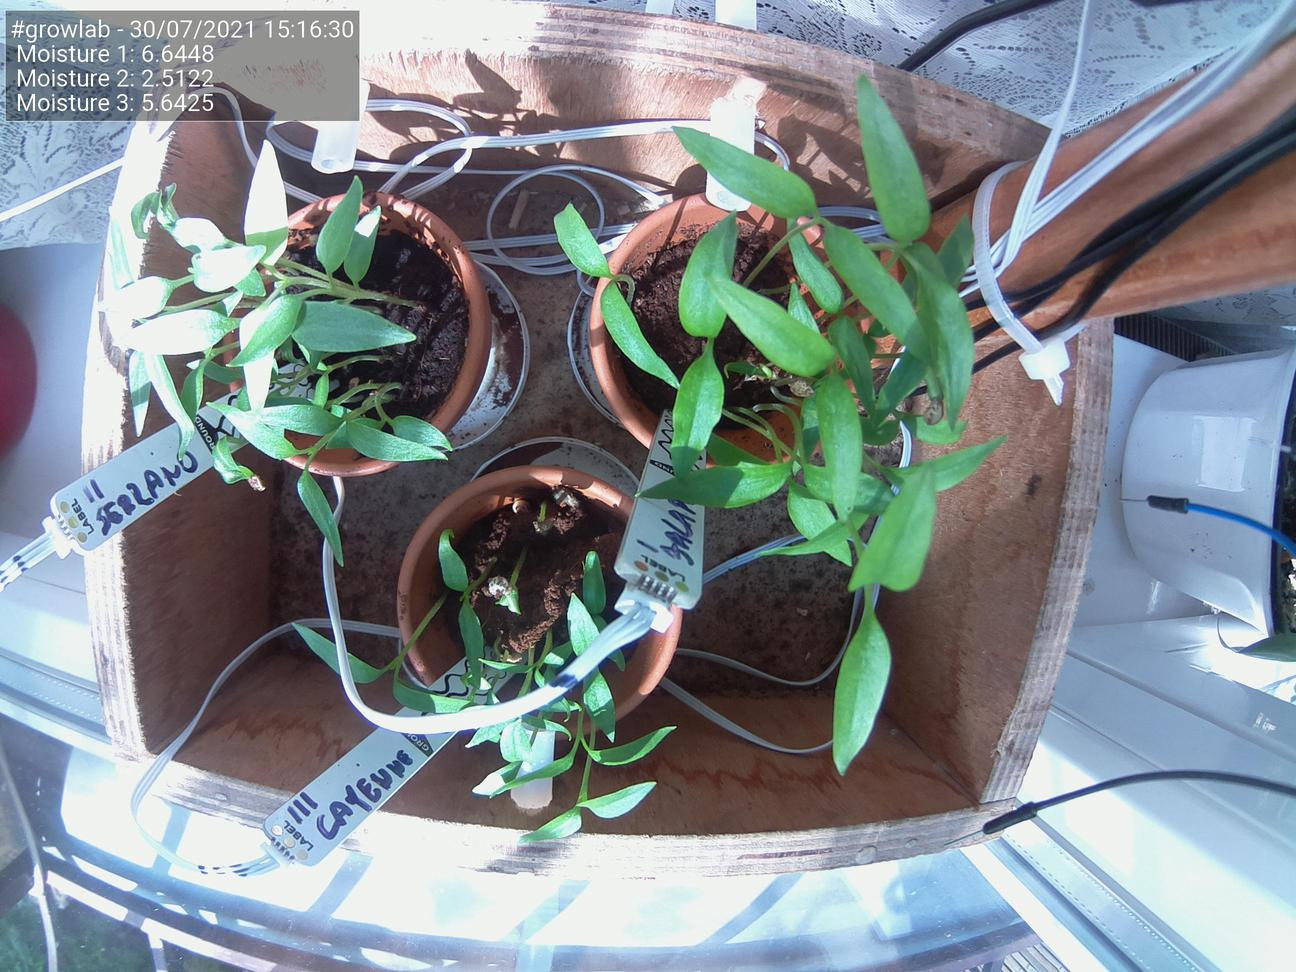
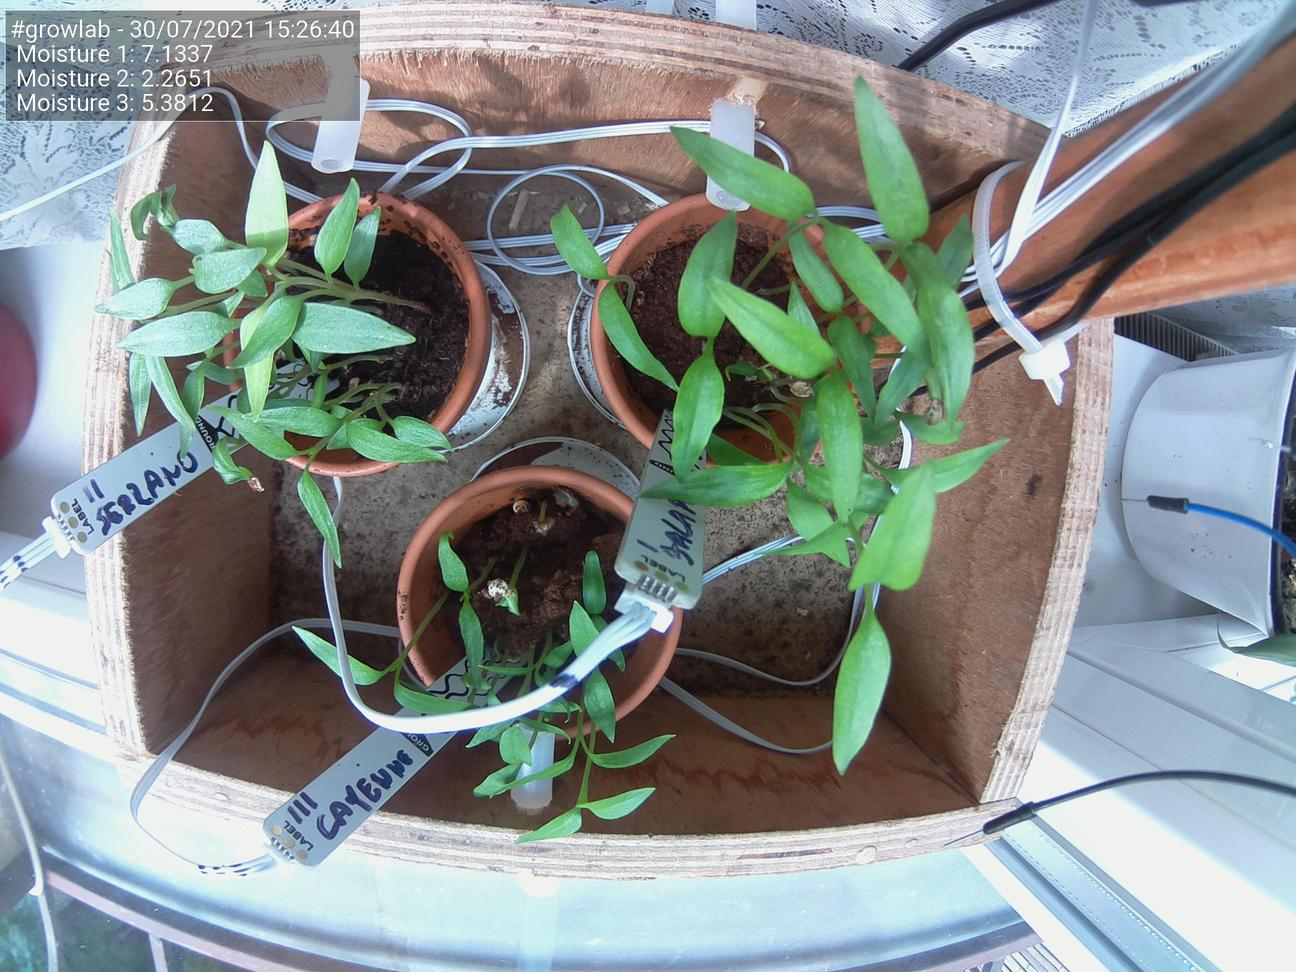
Update images at Fri 30 Jul 15:26:46 BST 2021

diff --git a/docs/index.html b/docs/index.html
@@ -51,25 +51,25 @@
                                 <td>Date</td>
                                 <td>30/07/2021</td>
                                 <td>Time</td>
-                                <td>15:16:30</td>
+                                <td>15:26:40</td>
                             </tr>
                             <tr>
                                 <td>Temperature</td>
                                 <td>N/A</td>
                                 <td>Moisture 1</td>
-                                <td>6.6448</td>
+                                <td>7.1337</td>
                             </tr>
                             <tr>
                                 <td>Humidity</td>
                                 <td>N/A</td>
                                 <td>Moisture 2</td>
-                                <td>2.5122</td>
+                                <td>2.2651</td>
                             </tr>
                             <tr>
                                 <td>Pressure</td>
                                 <td>N/A</td>
                                 <td>Moisture 3</td>
-                                <td>5.6425</td>
+                                <td>5.3812</td>
                             </tr>
                         </tbody>
                     </table>
@@ -77,7 +77,7 @@
 
                 <h5>Latest image</h5>
                 <div style="width: 85%;">
-                            <img class="figure-img img-fluid rounded" src="./preview.jpg?uid=1627654595.9204085">
+                            <img class="figure-img img-fluid rounded" src="./preview.jpg?uid=1627655206.023424">
                 </div>
             </div>
         </div>
